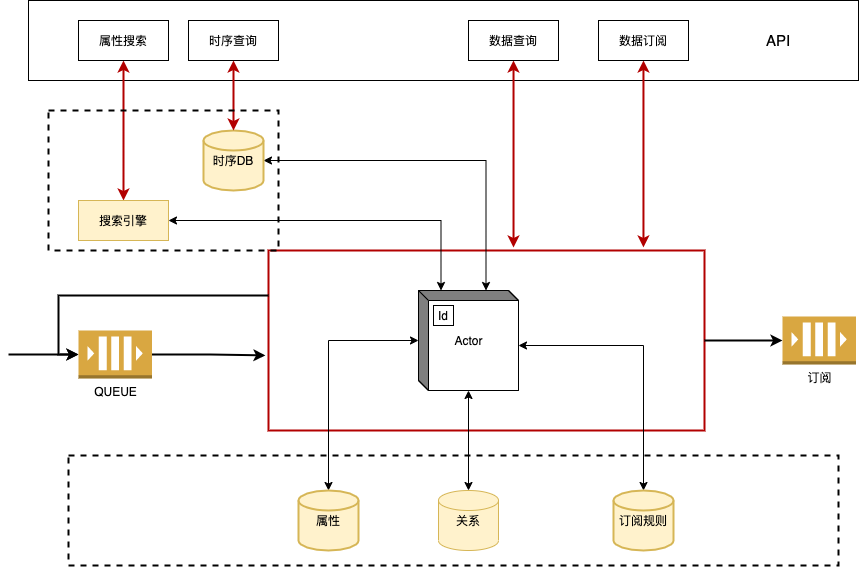
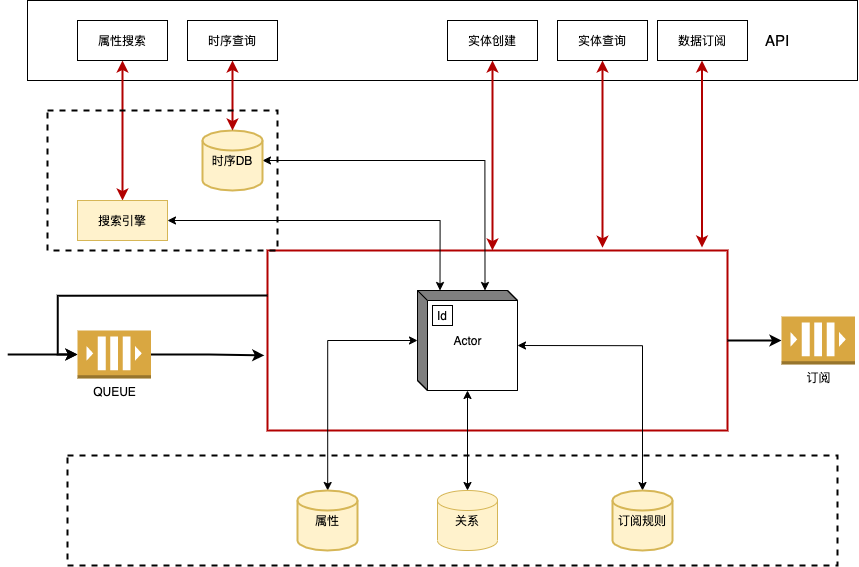
docs: update readme

diff --git a/examples/iot-paas.py b/examples/iot-paas.py
@@ -1,0 +1,87 @@
+import json
+import random
+import time
+import traceback
+import uuid
+
+import requests
+from paho.mqtt import client as mqtt_client
+
+keel_url = "http://192.168.123.9:30707/v0.1.0"
+broker = "192.168.123.9"
+port = 32412
+
+
+def create_entity_token(entity_id, entity_type, user_id):
+    data = dict(entity_id=entity_id, entity_type=entity_type, user_id=user_id)
+
+    token_create = "/auth/token/create"
+
+    res = requests.post(keel_url + token_create, json=data)
+    return res.json()["data"]["entity_token"]
+
+
+def create_entity(entity_id, entity_type, user_id, plugin_id, token):
+    query = dict(entity_id=entity_id, entity_type=entity_type, user_id=user_id, source="abc", plugin_id=plugin_id)
+    entity_create = "/core/plugins/{plugin_id}/entities?id={entity_id}&type={entity_type}&owner={user_id}&source={source}".format(
+        **query)
+    data = dict(token=token)
+    res = requests.post(keel_url + entity_create, json=data)
+    print(res.json())
+
+
+def get_entity(entity_id, entity_type, user_id, plugin_id):
+    query = dict(entity_id=entity_id, entity_type=entity_type, user_id=user_id, plugin_id=plugin_id)
+    entity_create = "/core/plugins/{plugin_id}/entities/{entity_id}?type={entity_type}&owner={user_id}&source={plugin_id}".format(
+        **query)
+    res = requests.get(keel_url + entity_create)
+    print(res.json()["properties"])
+
+
+def on_connect(client, userdata, flags, rc):
+    if rc == 0:
+        print("Connected to MQTT Broker!")
+    else:
+        print("Failed to connect, return code %d\n", rc)
+
+
+if __name__ == "__main__":
+    entity_id = uuid.uuid4().hex
+    entity_type = "device"
+    user_id = "abc"
+    print("base entity info")
+    print("entity_id = ", entity_id)
+    print("entity_type = ", entity_type)
+    print("user_id = ", user_id)
+
+    print("-" * 80)
+    print("get entity token")
+    token = create_entity_token(entity_id, entity_type, user_id)
+    print("token=", token)
+    time.sleep(1)
+    print("-" * 80)
+    print("create entity with token")
+    try:
+        create_entity(entity_id, entity_type, user_id, "pluginA", token)
+        print("create entity {entity_id} success".format(**dict(entity_id=entity_id)))
+    except Exception:
+        print(traceback.format_exc())
+        print("create entity failed")
+    time.sleep(1)
+    print("-" * 80)
+    print("update properties by mqtt")
+    client = mqtt_client.Client(entity_id)
+
+    client.username_pw_set(username=user_id, password=token)
+    client.on_connect = on_connect
+    client.connect(host=broker, port=port)
+    client.loop_start()
+    time.sleep(1)
+    payload = json.dumps(dict(p1=dict(value=random.randint(1, 100), time=int(time.time()))))
+    print(payload)
+    client.publish("system/test", payload=payload)
+    time.sleep(1)
+    client.disconnect()
+    print("-" * 80)
+    print("get entity")
+    get_entity(entity_id, entity_type, user_id, "pluginA")

diff --git a/README_zh.md b/README_zh.md
@@ -1,20 +1,21 @@
 # Core
 [English](README.md)
 
-Core通过api以实体为对象对外提供属性搜索，时序查询，数据写入，数据查询，数据订阅等服务，按操作分为控制平面和数据平面。
+Core通过api以实体为对象对外提供属性搜索，时序查询，数据写入，数据查询，数据订阅等服务，按操作分为控制平面和数据平面。  
 控制平面通过http进行实体的创建查询等操作，数据平面通过dapr的pubsub完成数据的高效写入和订阅。
 
 ![img.png](docs/images/architecture.png)
 
     
 ## 快速入门
-core可以作为tkeel的一个基础组件运行，也可以单独部署提供相关的能力
+core可以作为tkeel的一个基础组件运行，也可以部署为一个单独的服务。
 
 ### 作为tkeel的组件运行
 
-core作为tkeel的基础组件，相关API的调用需要通过tkeel代理  
-在tkeel相关组件完成之后，我们可以生成用于mqtt使用的token，创建实体，上报属性，获取快照，订阅等功能
-为了方便说明，我们使用外部流量方式访问keel，使用python作为示例代码语言
+core作为tkeel的基础组件，相关API的调用需要通过tkeel代理。参见tkeel文档。    
+在tkeel相关组件完成之后，我们可以生成用于mqtt使用的token，创建实体，上报属性，获取快照，订阅实体的属性等。  
+为了方便说明，我们使用外部流量方式访问keel，使用python作为示例代码语言。
+[code](examples/iot-paas.py)
 #### 获取服务端口
 1. keel服务端口
 ```bash
